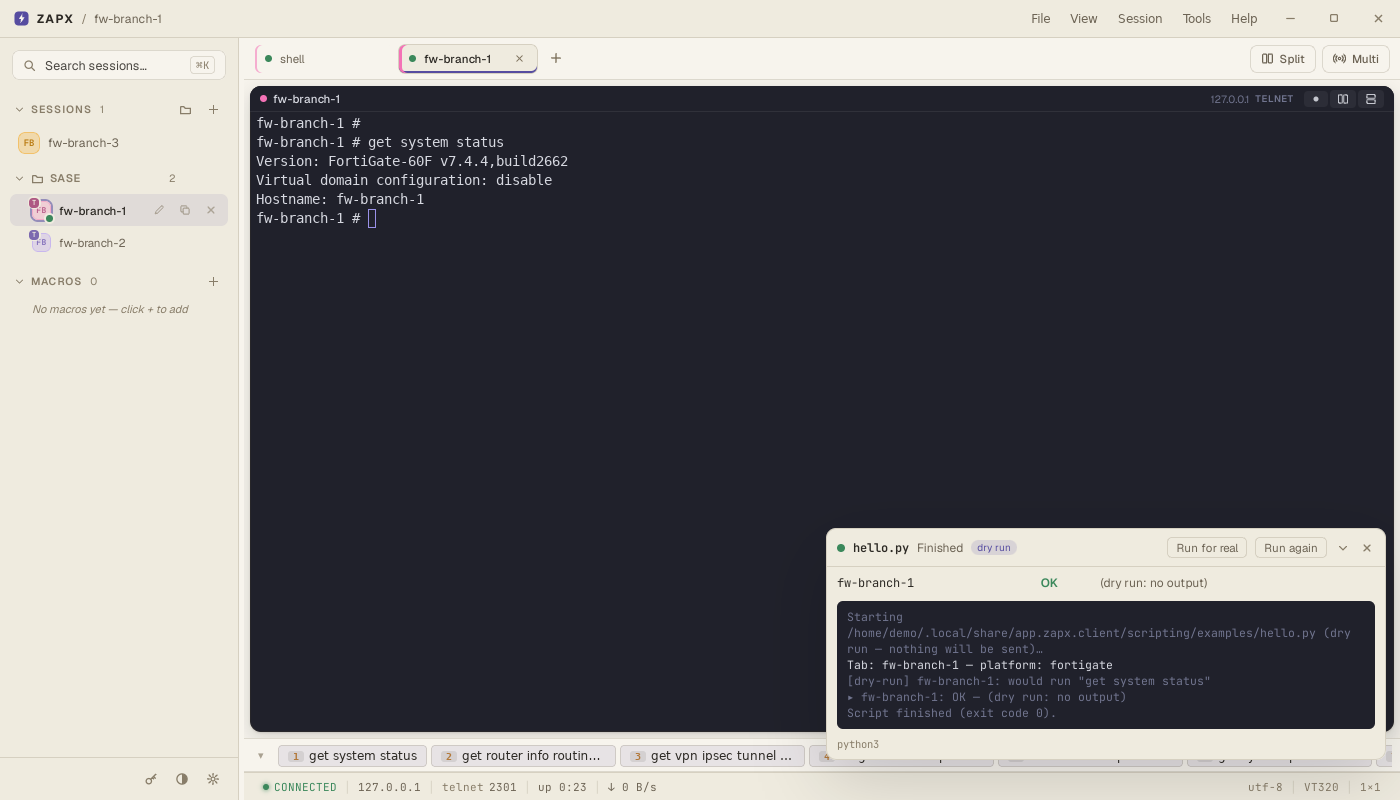
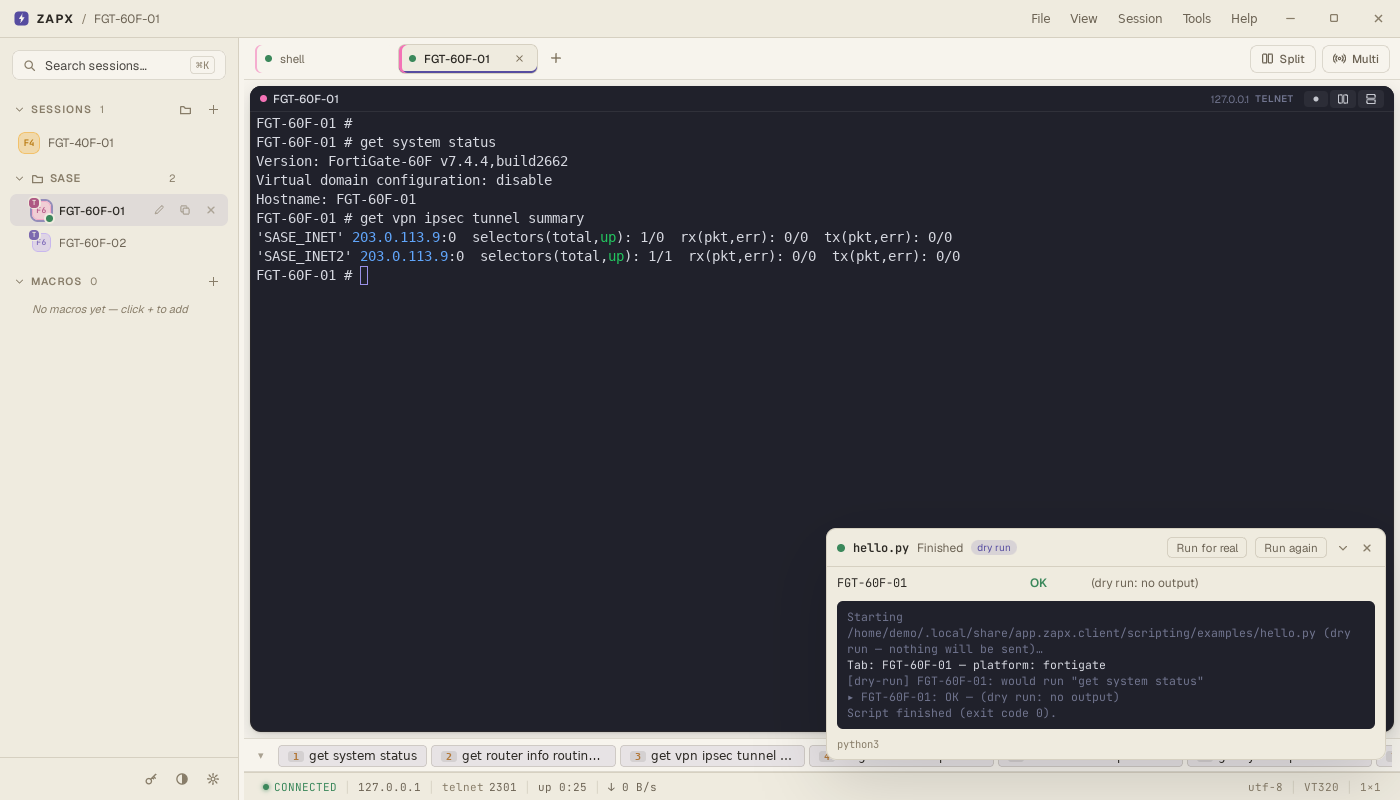
fix(scripting): re-running a notebook's connect() cell is no longer refused
connect() closed its own connection and immediately opened a new one; ZAPX
often had not seen the close yet and refused the newcomer as a second
notebook. When replacing its own connection, the module now retries that
refusal for up to 3 s. New test (fails without the retry).

Docs: example devices renamed by model (FGT-60F-01, FGT-60F-02,
FGT-40F-01) in the guides, the example notebook and module docstrings, with
a note that names, addresses (RFC 5737 documentation ranges) and passwords
are made up; screenshots retaken.

Claude-Session: https://claude.ai/code/session_013pWZVjAGGTih8bVJEUnWku

diff --git a/crates/app/src/scripting/zapx.py b/crates/app/src/scripting/zapx.py
@@ -23,7 +23,7 @@ turn on **Tools → Allow notebook connection** in ZAPX, then::
 
     import zapx
     zapx.connect()
-    fw = zapx.tab("fw-branch-1")             # a tab already open, or zapx.open(...)
+    fw = zapx.tab("FGT-60F-01")             # a tab already open, or zapx.open(...)
     print(fw.run("get vpn ipsec tunnel summary"))
 """
 
@@ -91,25 +91,35 @@ _notebook: Optional[dict] = None
 def _open(port: int, token: str) -> None:
     """Open the channel and present the token; raises Error if refused."""
     global _sock, _reader
+    # Replacing our own connection (a notebook re-running its connect() cell):
+    # ZAPX may not have seen the old one close yet and would refuse us as a
+    # second notebook, so retry that refusal for a moment.
+    replacing = _sock is not None
     _close()
-    try:
-        sock = socket.create_connection(("127.0.0.1", int(port)), timeout=10)
-    except OSError:
-        raise Error(
-            "ZAPX isn't accepting notebooks (is it open, with Tools → Allow "
-            "notebook connection on?)"
-        ) from None
-    reader = sock.makefile("r", encoding="utf-8", newline="\n")
-    sock.sendall((json.dumps({"token": token}) + "\n").encode("utf-8"))
-    line = reader.readline()
-    hello = json.loads(line) if line.strip() else {}
-    if hello.get("hello") is not True:
+    deadline = time.monotonic() + (3 if replacing else 0)
+    while True:
+        try:
+            sock = socket.create_connection(("127.0.0.1", int(port)), timeout=10)
+        except OSError:
+            raise Error(
+                "ZAPX isn't accepting notebooks (is it open, with Tools → Allow "
+                "notebook connection on?)"
+            ) from None
+        reader = sock.makefile("r", encoding="utf-8", newline="\n")
+        sock.sendall((json.dumps({"token": token}) + "\n").encode("utf-8"))
+        line = reader.readline()
+        hello = json.loads(line) if line.strip() else {}
+        if hello.get("hello") is True:
+            break
         sock.close()
-        raise Error(
-            hello.get("error")
-            or "ZAPX refused the connection (token out of date? turn the "
+        message = hello.get("error") or (
+            "ZAPX refused the connection (token out of date? turn the "
             "notebook connection off and on, then connect() again)"
         )
+        if "already connected" in message and time.monotonic() < deadline:
+            time.sleep(0.1)
+            continue
+        raise Error(message)
     sock.settimeout(None)
     _sock, _reader = sock, reader
 
@@ -343,7 +353,7 @@ def sessions(folder: Optional[str] = None) -> List[str]:
 
 def report(target: str, status: str, detail: str = "") -> None:
     """Add a row to the run's summary table, e.g.
-    ``report("fw-branch-1", "OK", "SASE_INET 1/1")``."""
+    ``report("FGT-60F-01", "OK", "SASE_INET 1/1")``."""
     _call("report", target=target, status=status, detail=detail)
 
 

diff --git a/crates/app/src/scripting/mod.rs b/crates/app/src/scripting/mod.rs
@@ -870,6 +870,23 @@ print(zapx.session().name)
     }
 
     #[tokio::test]
+    async fn re_running_connect_in_the_same_notebook_works() {
+        let Some(python) = python_or_skip() else {
+            return;
+        };
+        let nb = notebook(None).await;
+        // A notebook re-runs its first cell: connect() while already connected.
+        let body = format!(
+            "import zapx\nfor _ in range(3):\n    zapx.connect(path={:?})\n    print(zapx.session().name)\n",
+            nb.file.to_string_lossy()
+        );
+        let out = run_outside(&python, &nb.module_dir, &body).await;
+        assert_eq!(out.trim(), "fw1\nfw1\nfw1", "{out}");
+        nb.run.stop();
+        let _ = std::fs::remove_dir_all(nb.dir);
+    }
+
+    #[tokio::test]
     async fn a_second_notebook_is_refused_while_one_is_connected() {
         let Some(python) = python_or_skip() else {
             return;

diff --git a/docs/user-guide/automation/README.md b/docs/user-guide/automation/README.md
@@ -16,7 +16,7 @@ run, then for real) and explored a device from a notebook.
  your script / notebook                        ZAPX                       devices
  ┌──────────────────────┐   "run get system  ┌──────────────────┐  types  ┌──────────┐
  │ import zapx          │ ─── status on ───▶ │ a real terminal  │ ──────▶ │ FortiGate│
- │ out = fw.run(...)    │     fw-branch-1"   │ tab you can see  │         │  switch  │
+ │ out = fw.run(...)    │     FGT-60F-01"    │ tab you can see  │         │  switch  │
  │ if "down" in out: …  │ ◀── the output ─── │                  │ ◀────── │  router  │
  └──────────────────────┘                    └──────────────────┘         └──────────┘
 ```
@@ -39,8 +39,13 @@ run, then for real) and explored a device from a notebook.
     and tick **"Add python.exe to PATH"** in the installer.
   - macOS: install it from [python.org](https://www.python.org/downloads/).
 - A device to try it on. The screenshots use two FortiGates called
-  `fw-branch-1` and `fw-branch-2` in a folder called `SASE`; any device you can
+  `FGT-60F-01` and `FGT-60F-02` in a folder called `SASE`; any device you can
   reach works for parts 1 and 3.
+
+> All names, addresses and passwords in this guide are made up. IP addresses
+> are from the ranges reserved for documentation (`192.0.2.0/24`,
+> `203.0.113.0/24`, RFC 5737) or `127.0.0.1`; the screenshots come from a demo
+> profile talking to simulated FortiGates.
 
 ## Reference
 

diff --git a/docs/user-guide/automation/2-scripts.md b/docs/user-guide/automation/2-scripts.md
@@ -118,7 +118,7 @@ CLOSE_TABS = True         # close each device's tab when done
 ```
 
 - Put your FortiGates in a folder and set `FOLDER`, **or** list them by name:
-  `DEVICES = ["fw-branch-1", "fw-branch-7"]`.
+  `DEVICES = ["FGT-60F-01", "FGT-60F-07"]`.
 - Set `TUNNELS` to your tunnel names.
 
 ### 1) Dry run first — always
@@ -139,19 +139,19 @@ Click **Run for real**. The script asks before touching anything:
 ![Confirmation before sending](../images/script-sase-confirm.png)
 
 Answer **Yes**. Each device opens in a tab and you watch the commands go out —
-here on `fw-branch-1`, where `SASE_INET` was down (`selectors 1/0`):
+here on `FGT-60F-01`, where `SASE_INET` was down (`selectors 1/0`):
 
-![The script working on fw-branch-1](../images/script-sase-running.png)
+![The script working on FGT-60F-01](../images/script-sase-running.png)
 
 The panel's **Stop** button ends the script at any time.
 
 ### 3) Read the result
 
-![Result: fw-branch-1 reset, fw-branch-2 left alone](../images/script-sase-result.png)
+![Result: FGT-60F-01 reset, FGT-60F-02 left alone](../images/script-sase-result.png)
 
-- `fw-branch-1` — **OK**: the down tunnel was reset and both tunnels came back
+- `FGT-60F-01` — **OK**: the down tunnel was reset and both tunnels came back
   (`(1, 1)` = 1 selector, 1 up).
-- `fw-branch-2` — **OK — already up, nothing sent**: both tunnels were up, so
+- `FGT-60F-02` — **OK — already up, nothing sent**: both tunnels were up, so
   the script didn't touch it.
 
 ## Writing your own

diff --git a/CHANGELOG.md b/CHANGELOG.md
@@ -13,7 +13,8 @@ and this project adheres to [Semantic Versioning](https://semver.org/spec/v2.0.0
   login automation), Python scripts (`hello.py`, then `sase_reset.py` step by
   step with a dry run first) and notebooks (`explore.ipynb` in VS Code or
   JupyterLab), with screenshots of the real app. The main guide gains its
-  workspace, session-dialog and vault screenshots.
+  workspace, session-dialog and vault screenshots. Example devices are named
+  by model (`FGT-60F-01`…) and use documentation-only IP addresses.
 
 ### Fixed
 - **Scripts saw "platform: unknown" on a saved session whose platform was
@@ -23,6 +24,10 @@ and this project adheres to [Semantic Versioning](https://semver.org/spec/v2.0.0
   It is now read fresh whenever a script or notebook takes a tab.
 - Scripts no longer leave `__pycache__` folders in your script and examples
   folders.
+- **Re-running a notebook's `zapx.connect()` cell was refused** with
+  "another notebook is already connected": the module closed its old
+  connection and opened the new one before ZAPX noticed the close. Replacing
+  its own connection now retries that refusal for a moment.
 
 ## [0.26.0] - 2026-10-23
 

diff --git a/docs/adr/0001-notebook-connection.md b/docs/adr/0001-notebook-connection.md
@@ -26,7 +26,7 @@ use el mismo módulo `zapx` que los scripts.
 import zapx
 zapx.connect()                       # se engancha al ZAPX abierto
 
-fw = zapx.open("fw-branch-1")        # abre la sesión guardada en una pestaña
+fw = zapx.open("FGT-60F-01")        # abre la sesión guardada en una pestaña
 out = fw.run("get vpn ipsec tunnel summary")
 print(out)                           # salida real, en la celda
 ```
@@ -88,7 +88,7 @@ exacta.
   con un mensaje claro.
 - Mismas llamadas que en los scripts, más dos pensadas para notebooks:
   - `zapx.tabs()` — pestañas abiertas ahora (nombre, plataforma);
-  - `zapx.tab("fw-branch-1")` — engancharse a una pestaña **ya abierta** por
+  - `zapx.tab("FGT-60F-01")` — engancharse a una pestaña **ya abierta** por
     su nombre, sin abrir otra.
 - `zapx.session()` en un notebook devuelve la pestaña con el foco **en ese
   momento** (en un script es la que tenía el foco al arrancar).

diff --git a/docs/user-guide/automation/1-getting-started.md b/docs/user-guide/automation/1-getting-started.md
@@ -58,7 +58,7 @@ Click **+** next to **SESSIONS** (or press `Ctrl+N`):
 | Field | Example | Notes |
 |---|---|---|
 | Protocol | SSH | Telnet, serial and local shell are also available. |
-| Name | `fw-branch-1` | How it appears in the sidebar, on the tab — and how scripts find it. |
+| Name | `FGT-60F-01` | How it appears in the sidebar, on the tab — and how scripts find it. |
 | Host / Port | `192.0.2.11` / `22` | |
 | Use a saved credential (vault) | `fortigate-admin (admin)` | Fills the user name; the password stays in the vault. |
 | Folder | `SASE` | Create folders with the folder icon next to **SESSIONS**. Scripts can work on a whole folder. |

diff --git a/docs/user-guide/scripting.md b/docs/user-guide/scripting.md
@@ -95,7 +95,7 @@ file:
    Opened from the examples folder (`explore.ipynb`), `import zapx` finds the
    copy there. Anywhere else, paste the `sys.path.insert(…)` line the panel
    shows first.
-4. Then, cell by cell: `fw = zapx.tab("fw-branch-1")` (a tab already open) or
+4. Then, cell by cell: `fw = zapx.tab("FGT-60F-01")` (a tab already open) or
    `zapx.open("saved session")`, `out = fw.run("get vpn ipsec tunnel summary")`,
    and work on `out` in the next cell.
 
